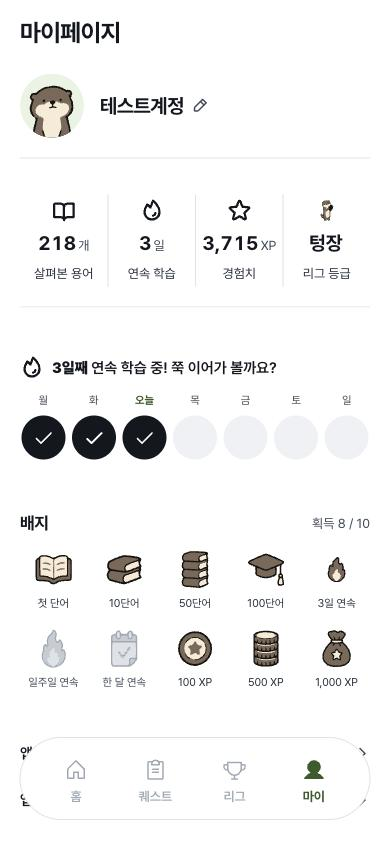
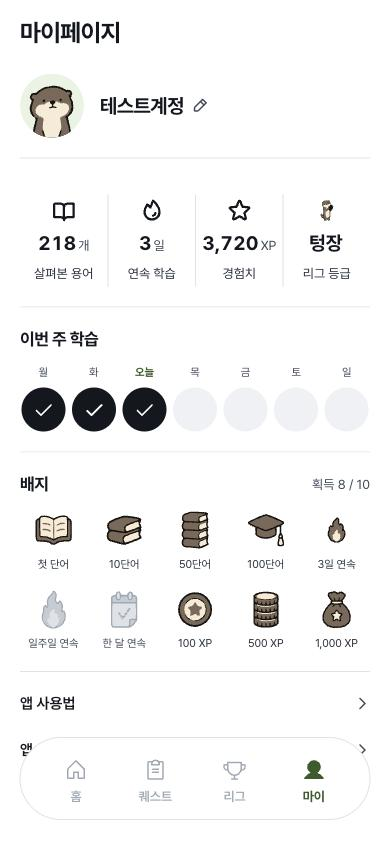
마이 화면 정리: 섹션 구분을 1px 구분선으로 통일, 이번 주 학습 칸 제목을 섹션 제목으로(연속 일수 중복 제거), 메뉴 줄 들여쓰기 맞춤

diff --git a/src/index.css b/src/index.css
@@ -1079,8 +1079,6 @@ button.course-home-topic:not(:last-child)::after { content: ''; position: absolu
 .home-attendance .week-strip { padding-block: var(--space-3); }
 
 /* 홈 상단: 이번 주 연속 학습 카드 */
-.home-streak-title { display: flex; align-items: center; gap: var(--space-2); margin-bottom: var(--space-3); color: var(--color-ink); font-size: var(--font-size-body); font-weight: var(--font-weight-semibold); line-height: var(--line-height-body); word-break: keep-all; }
-.home-streak-title strong { color: var(--color-neutral-strong); }
 .my-streak .week-strip { padding: 0; border: 0; }
 .my-streak .week-strip-heading { display: none; }
 .my-streak .week-strip-circle { max-width: 44px; background: var(--color-neutral-soft); color: var(--color-ink-3); }
@@ -1185,9 +1183,10 @@ button.home-review-entry { border-bottom: 0; }
 .league-ranking-section { padding-bottom: var(--space-5); background: var(--color-card); }
 .quest-hero { margin: 0 calc(var(--space-5) * -1); padding: var(--space-5); background: var(--color-card); border-bottom: 0; }
 .quest-missions-section { padding-bottom: var(--space-3); background: var(--color-card); }
-.my-page-hero { margin-bottom: var(--section-gap); background: var(--color-card); }
-.my-page-sections .my-page-panel { margin: 0 calc(var(--space-5) * -1) var(--section-gap); padding: var(--space-5); background: var(--color-card); border-bottom: 0; }
-.my-page-sections .my-page-panel.my-page-menu { padding: var(--space-2) var(--space-5); }
+/* 마이: 흰 바탕에서 여백만으로는 섹션이 안 나뉘어, 프로필·통계와 같은 1px 구분선으로 통일한다 */
+.my-page-hero { margin-bottom: 0; padding-bottom: 0; background: var(--color-card); }
+.my-page-sections .my-page-panel { margin: 0; padding: var(--space-5) 0; background: var(--color-card); border-bottom: 1px solid var(--color-line); }
+.my-page-sections .my-page-panel.my-page-menu { padding: var(--space-2) 0; border-bottom: 0; }
 /* 목록 행 아이콘은 옅은 보라 둥근 사각 틀에 넣는다 */
 .home-review-icon { border-radius: var(--shape-inset); }
 /* 복습 보조 행동(초성 힌트·건너뛰기)은 외곽선 버튼: 채운 버튼은 정답 확인 하나 */
@@ -1209,7 +1208,7 @@ button.review-aux-button:disabled { color: var(--color-ink-3); }
 /* 퀘스트·리그·마이는 흰 바탕. 섹션 사이는 라벤더 띠 대신 구분선 */
 .quest-screen, .league-screen, .my-page-screen { background: var(--color-card); }
 .my-page-sections .my-page-panel.my-page-menu { padding-inline: 0; }
-.my-page-menu button > div { padding-inline: var(--space-5); }
+.my-page-menu button > div { padding-inline: 0; }
 /* 홈 주제 카드: 작은 주제 썸네일 + 제목·단계를 한 줄로. 주버튼보다 가볍게 */
 button.course-home-rail-card { width: 160px; flex-direction: column; align-items: stretch; gap: var(--space-2); }
 .course-home-rail-text { display: flex; min-width: 0; flex-direction: column; gap: 2px; }

diff --git a/src/pages/MyPageScreen.tsx b/src/pages/MyPageScreen.tsx
@@ -81,12 +81,9 @@ const MyPageScreen = () => {
       </div>
 
       <div className="my-page-sections shrink-0 px-5">
-        {/* 연속 학습: 이번 주 칸(홈에서 옮겨 왔다) */}
+        {/* 이번 주 학습 칸(홈에서 옮겨 왔다). 연속 일수는 위 통계에 있어 제목에서 반복하지 않는다 */}
         <section aria-labelledby="my-streak-title" className="my-page-panel my-streak">
-          <p id="my-streak-title" className="home-streak-title">
-            <StreakIcon size={24} />
-            {streak > 0 ? <span><strong>{streak}일째</strong> 연속 학습 중! 쭉 이어가 볼까요?</span> : <span>오늘 학습하면 연속 학습이 시작돼요</span>}
-          </p>
+          <h3 id="my-streak-title" className="type-section-title mb-3">이번 주 학습</h3>
           <WeekStrip attendanceDates={attendanceDates} />
         </section>
 

diff --git a/src/pages/MyPageScreen.test.tsx b/src/pages/MyPageScreen.test.tsx
@@ -68,7 +68,9 @@ describe('내 정보의 정확한 숫자 표시', () => {
   });
   it('연속 학습 이번 주 칸을 마이에서 보여준다', () => {
     const container = mount();
-    expect(container.querySelector('.my-streak')).toHaveTextContent('연속 학습');
+    expect(container.querySelector('.my-streak')).toHaveTextContent('이번 주 학습');
+    // 연속 일수는 통계 칸에만 둔다(같은 숫자 반복 금지)
+    expect(container.querySelector('.my-streak')).not.toHaveTextContent('일째');
     expect(container.querySelectorAll('.my-streak .week-strip-day')).toHaveLength(7);
   });
   it('살펴본 용어·연속 학습·경험치·리그 등급을 한 줄 네 칸으로 보여준다', () => {

diff --git a/DESIGN.md b/DESIGN.md
@@ -240,7 +240,7 @@
 
 ### 마이 (`/my`)
 
-- 프로필(누르면 그림 선택, 닉네임) 아래 4칸 통계(살펴본 용어, 연속 학습, 경험치, 리그 등급 그림+이름), 그다음 연속 학습 이번 주 칸(홈에서 옮김). 승급 조건은 리그 안내 시트에만.
+- 프로필(누르면 그림 선택, 닉네임) 아래 4칸 통계(살펴본 용어, 연속 학습, 경험치, 리그 등급 그림+이름), 그다음 "이번 주 학습" 칸(홈에서 옮김, 연속 일수는 통계에만). 섹션(프로필·통계·이번 주 학습·배지·메뉴)은 1px 구분선과 같은 위아래 여백으로 나눈다. 승급 조건은 리그 안내 시트에만.
 - 배지 5열 격자, 메뉴(앱 사용법, 앱 설정) 목록.
 
 ---
